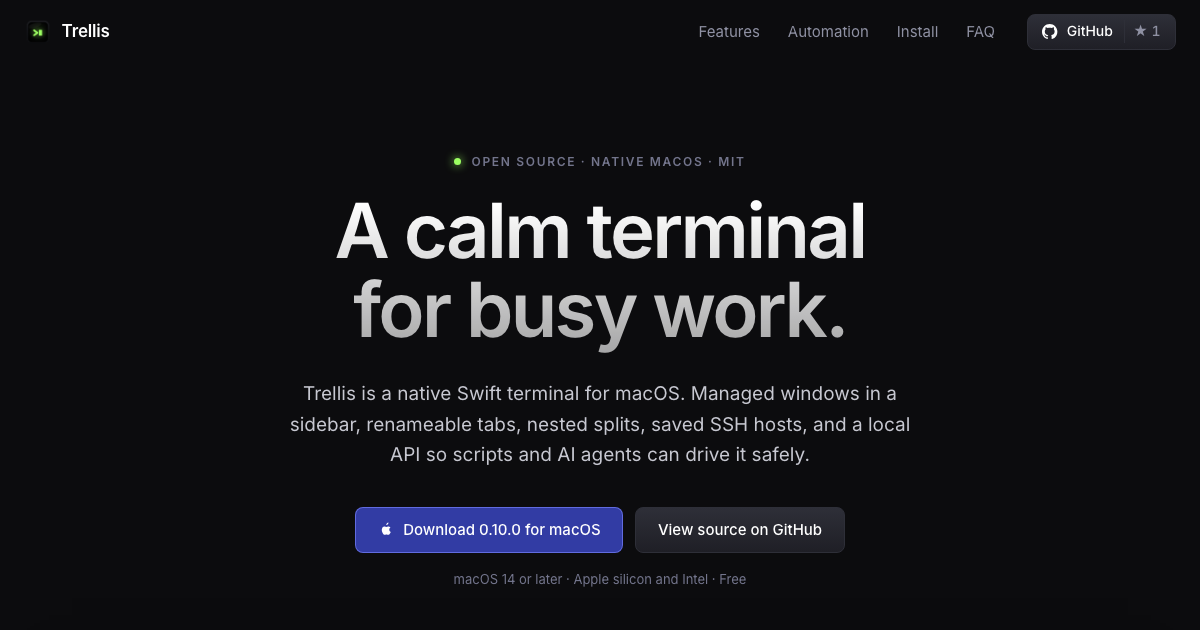
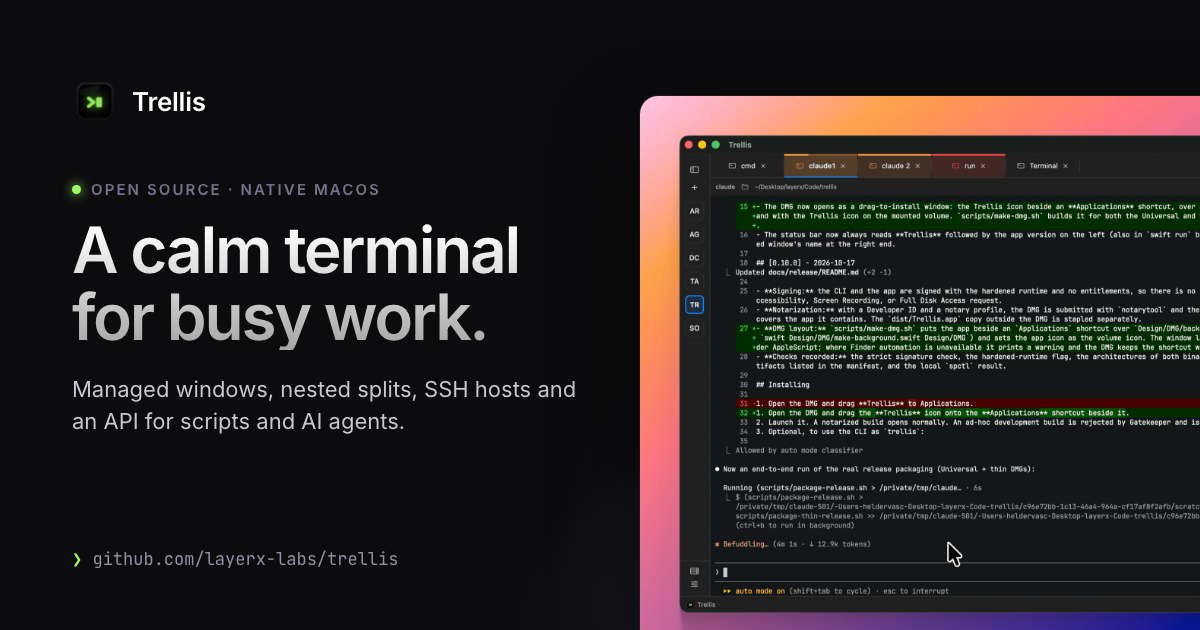
feat(landing): product screenshots, Open Graph and SEO
Adds the tabs, splits, shell, hosts and themes screenshots on the hero's
wallpaper gradient, with alt text matching each capture. Screenshots in
reversed rows get the wide column.

SEO: canonical URL, Open Graph and Twitter tags with a 1200x630 share card
(rendered from og/og.html via `npm run og`), SoftwareApplication JSON-LD, a web
manifest, and build-time robots.txt and sitemap.xml. Absolute URLs come from
SITE_URL (default https://trellis.layerx.xyz), passed through the Dockerfile as
a build arg for Railway.

Verified: clean build; SITE_URL override; headless Chrome render of the page.
Pending: share previews on a live domain.

diff --git a/landing/index.html b/landing/index.html
@@ -4,15 +4,57 @@
     <meta charset="UTF-8" />
     <meta name="viewport" content="width=device-width, initial-scale=1" />
     <title>Trellis: a calm, native terminal for macOS</title>
-    <meta name="description" content="Trellis is an open-source native Swift terminal for macOS: managed windows, renameable tabs, nested splits, saved SSH hosts and a local automation API with a CLI and MCP server." />
+    <meta name="description" content="Trellis is a free, open-source native Swift terminal for macOS: managed windows, renameable tabs, nested splits, saved SSH hosts and a local automation API with a CLI and MCP server." />
+    <meta name="keywords" content="macOS terminal, terminal emulator, Swift, SwiftUI, SSH client, split panes, open source terminal, MCP, Claude Code, automation API" />
+    <meta name="author" content="LayerX Labs" />
+    <meta name="robots" content="index, follow, max-image-preview:large" />
+    <link rel="canonical" href="%SITE_URL%/" />
     <meta name="theme-color" content="#0c0c0e" />
+    <meta name="color-scheme" content="dark" />
     <link rel="icon" type="image/png" href="/favicon.png" />
     <link rel="apple-touch-icon" href="/apple-touch-icon.png" />
+    <link rel="manifest" href="/site.webmanifest" />
+
+    <!-- Open Graph -->
     <meta property="og:type" content="website" />
+    <meta property="og:site_name" content="Trellis" />
+    <meta property="og:locale" content="en_US" />
+    <meta property="og:url" content="%SITE_URL%/" />
     <meta property="og:title" content="Trellis: a calm, native terminal for macOS" />
-    <meta property="og:description" content="Open source. Managed windows, nested splits, SSH hosts and an automation API for scripts and agents." />
-    <meta property="og:image" content="/og.png" />
+    <meta property="og:description" content="Free and open source. Managed windows, nested splits, saved SSH hosts and an automation API for scripts and AI agents." />
+    <meta property="og:image" content="%SITE_URL%/og.png" />
+    <meta property="og:image:type" content="image/png" />
+    <meta property="og:image:width" content="1200" />
+    <meta property="og:image:height" content="630" />
+    <meta property="og:image:alt" content="Trellis, a calm terminal for busy work: the app window with tabs and a terminal session" />
+
+    <!-- Twitter / X -->
     <meta name="twitter:card" content="summary_large_image" />
+    <meta name="twitter:title" content="Trellis: a calm, native terminal for macOS" />
+    <meta name="twitter:description" content="Free and open source. Managed windows, nested splits, saved SSH hosts and an automation API for scripts and AI agents." />
+    <meta name="twitter:image" content="%SITE_URL%/og.png" />
+    <meta name="twitter:image:alt" content="Trellis, a calm terminal for busy work: the app window with tabs and a terminal session" />
+
+    <script type="application/ld+json">
+    {
+        "@context": "https://schema.org",
+        "@type": "SoftwareApplication",
+        "name": "Trellis",
+        "description": "A free, open-source native Swift terminal for macOS with managed windows, nested splits, saved SSH hosts and a local automation API.",
+        "url": "%SITE_URL%/",
+        "image": "%SITE_URL%/og.png",
+        "screenshot": "%SITE_URL%/og.png",
+        "applicationCategory": "DeveloperApplication",
+        "operatingSystem": "macOS 14 or later",
+        "processorRequirements": "Apple silicon or Intel (Universal 2)",
+        "downloadUrl": "https://github.com/layerx-labs/trellis/releases/latest",
+        "license": "https://opensource.org/licenses/MIT",
+        "isAccessibleForFree": true,
+        "offers": { "@type": "Offer", "price": "0", "priceCurrency": "USD" },
+        "author": { "@type": "Organization", "name": "LayerX", "url": "https://layerx.xyz" },
+        "sameAs": ["https://github.com/layerx-labs/trellis"]
+    }
+    </script>
 </head>
 <body>
     <a class="skip-link" href="#main">Skip to content</a>
@@ -82,7 +124,7 @@
                             <li>Programs can post desktop notifications (OSC 9, 777 and 99). Click one to jump straight to the pane.</li>
                         </ul>
                     </div>
-                    <figure class="shot" data-shot="tabs" data-alt="Trellis sidebar with several managed windows and color-labeled tabs"></figure>
+                    <figure class="shot" data-shot="tabs" data-alt="Trellis with managed windows in the sidebar and five color-labeled tabs"></figure>
                 </div>
 
                 <div class="split split-rev reveal">
@@ -94,7 +136,7 @@
                             <li>Restored workspaces start with every session <strong>stopped</strong>. Typed input is never replayed.</li>
                         </ul>
                     </div>
-                    <figure class="shot" data-shot="splits" data-alt="A Trellis tab split into several panes running different programs"></figure>
+                    <figure class="shot" data-shot="splits" data-alt="A Trellis tab split into two panes, git log on the left and htop on the right"></figure>
                 </div>
 
                 <div class="split reveal">
@@ -106,7 +148,7 @@
                             <li>On by default. Turn it off in Settings → Sessions.</li>
                         </ul>
                     </div>
-                    <figure class="shot" data-shot="shell" data-alt="A failed command flagged in the Trellis scrollback"></figure>
+                    <figure class="shot" data-shot="shell" data-alt="A tab waiting for a password: the Input label shows on the tab and its window in the sidebar"></figure>
                 </div>
             </div>
         </section>
@@ -197,7 +239,7 @@
                         <li>An optional per-host password lives in the macOS Keychain, optionally behind Touch ID, and is given to ssh only at its password prompt.</li>
                     </ul>
                 </div>
-                <figure class="shot reveal" data-shot="hosts" data-alt="The Trellis Hosts window listing saved SSH hosts"></figure>
+                <figure class="shot reveal" data-shot="hosts" data-alt="The Trellis Hosts window editing a saved SSH host"></figure>
             </div>
         </section>
 
@@ -214,7 +256,7 @@
                         <li>A JSON theme library you can import, edit and share. Bundled Roboto Mono, JetBrains Mono and four more typefaces.</li>
                     </ul>
                 </div>
-                <figure class="shot reveal" data-shot="themes" data-alt="Trellis theme settings with a live preview"></figure>
+                <figure class="shot reveal" data-shot="themes" data-alt="Trellis in a green-tinted theme with shell integration showing the directory and git branch"></figure>
             </div>
         </section>
 

diff --git a/landing/og/og.html b/landing/og/og.html
@@ -1,0 +1,47 @@
+<!doctype html>
+<!-- The 1200x630 share card. Rebuild public/og.png with `npm run og` (needs Google Chrome). -->
+<html lang="en">
+<head>
+<meta charset="UTF-8" />
+<style>
+    @font-face { font-family: "Inter Variable"; src: url("../node_modules/@fontsource-variable/inter/files/inter-latin-wght-normal.woff2") format("woff2"); font-weight: 100 900; }
+    @font-face { font-family: "JetBrains Mono"; src: url("../node_modules/@fontsource/jetbrains-mono/files/jetbrains-mono-latin-400-normal.woff2") format("woff2"); }
+    * { box-sizing: border-box; margin: 0; }
+    html, body { width: 1200px; height: 630px; overflow: hidden; }
+    body {
+        position: relative; background: #0c0c0e; color: #c7c8d1;
+        font-family: "Inter Variable", sans-serif; font-feature-settings: "cv05" on; -webkit-font-smoothing: antialiased;
+        background-image:
+            radial-gradient(60% 70% at 88% 85%, rgba(104, 115, 233, 0.22), transparent 70%),
+            radial-gradient(40% 50% at 70% 100%, rgba(142, 127, 202, 0.18), transparent 70%);
+    }
+    .copy { position: absolute; left: 72px; top: 78px; width: 520px; }
+    .brand { display: flex; align-items: center; gap: 14px; color: #fff; font-size: 26px; font-weight: 600; letter-spacing: -0.01em; }
+    .brand img { width: 46px; height: 46px; border-radius: 10px; }
+    .eyebrow { display: flex; align-items: center; gap: 10px; margin-top: 56px; color: #73758c; font-size: 15px; font-weight: 600; letter-spacing: 0.14em; text-transform: uppercase; }
+    .dot { width: 9px; height: 9px; border-radius: 50%; background: #9cff62; box-shadow: 0 0 12px #9cff62; }
+    h1 {
+        margin-top: 18px; font-size: 64px; line-height: 1.04; letter-spacing: -0.035em; font-weight: 600;
+        background: linear-gradient(#fff 6.98%, #ffffff5c 167.44%); -webkit-background-clip: text; color: transparent;
+    }
+    .lead { margin-top: 24px; font-size: 22px; line-height: 1.45; color: #c7c8d1; }
+    .repo { position: absolute; left: 72px; bottom: 60px; font-family: "JetBrains Mono", monospace; font-size: 17px; color: #8f91a3; }
+    .repo b { color: #9cff62; font-weight: 400; }
+    .shot {
+        position: absolute; left: 640px; top: 96px; width: 760px; border-radius: 18px; overflow: hidden;
+        box-shadow: 0 40px 90px -10px rgba(0, 0, 0, 0.75), 0 0 0 1px rgba(255, 255, 255, 0.08);
+    }
+    .shot img { display: block; width: 100%; }
+</style>
+</head>
+<body>
+    <div class="copy">
+        <div class="brand"><img src="../public/apple-touch-icon.png" alt="" />Trellis</div>
+        <p class="eyebrow"><span class="dot"></span>Open source · native macOS</p>
+        <h1>A calm terminal for busy work.</h1>
+        <p class="lead">Managed windows, nested splits, SSH hosts and an API for scripts and AI agents.</p>
+    </div>
+    <p class="repo"><b>❯</b> github.com/layerx-labs/trellis</p>
+    <div class="shot"><img src="../src/assets/shots/hero.png" alt="" /></div>
+</body>
+</html>

diff --git a/landing/src/style.css b/landing/src/style.css
@@ -15,6 +15,8 @@
     --purple: #8e7fca;
     --purple-deep: #6954b8;
     --phosphor: #9cff62;
+    /* Sampled from the hero screenshot's macOS wallpaper, so every window capture sits on the same backdrop. */
+    --wallpaper: linear-gradient(135deg, #ffcfe5 0%, #ffb384 16%, #ff9c75 28%, #f4899f 42%, #d27fac 50%, #8f5ca4 63%, #5746b2 74%, #072ba6 88%, #021e87 100%);
 
     --font: "Inter Variable", Inter, -apple-system, BlinkMacSystemFont, "SF Pro Display", "Helvetica Neue", sans-serif;
     --mono: "JetBrains Mono", ui-monospace, "SF Mono", Menlo, monospace;
@@ -135,6 +137,7 @@ strong { color: var(--heading); font-weight: 600; }
 
 .split { display: grid; grid-template-columns: minmax(0, 1fr) minmax(0, 1.35fr); gap: 4rem; align-items: center; }
 .split + .split { margin-top: 6rem; }
+.split-rev { grid-template-columns: minmax(0, 1.35fr) minmax(0, 1fr); }
 .split-rev > :first-child { order: 2; }
 .split-title { font-size: 1.625rem; line-height: 1.2; letter-spacing: -0.02em; margin-bottom: 1.25rem; }
 .split-copy .section-lead { margin-bottom: 1.5rem; }
@@ -145,7 +148,9 @@ strong { color: var(--heading); font-weight: 600; }
 /* Screenshots */
 .shot { margin: 0; }
 .shot-open { display: block; width: 100%; padding: 0; border: 0; background: none; cursor: zoom-in; border-radius: var(--radius-lg); }
-.shot img, .shot-open img { width: 100%; height: auto; border-radius: var(--radius-lg); box-shadow: 0 1.5rem 4rem -1rem rgba(0, 0, 0, 0.6), 0 0 0 1px rgba(255, 255, 255, 0.06); }
+/* Window captures carry their own macOS shadow on a transparent margin; they sit on the hero's wallpaper. */
+.shot img, .shot-open img { width: 100%; height: auto; }
+.shot .shot-open { padding: clamp(0.75rem, 4%, 2.25rem); border-radius: var(--radius-lg); background: var(--wallpaper); box-shadow: 0 1.5rem 4rem -1rem rgba(0, 0, 0, 0.6), 0 0 0 1px rgba(255, 255, 255, 0.06); }
 .shot-placeholder {
     aspect-ratio: 16 / 10; display: grid; place-items: center; text-align: center; padding: 1.5rem;
     border-radius: var(--radius-lg); color: var(--dimmer); font-size: 0.875rem;

diff --git a/landing/vite.config.js b/landing/vite.config.js
@@ -1,6 +1,29 @@
-import { defineConfig } from "vite";
+import { defineConfig, loadEnv } from "vite";
 
-export default defineConfig({
-    base: "/",
-    build: { outDir: "dist", assetsInlineLimit: 0 },
+// Canonical, Open Graph and sitemap URLs must be absolute. Set SITE_URL at build time
+// (a Railway service variable, `SITE_URL=… npm run build`, or landing/.env).
+function seo(siteURL) {
+    return {
+        name: "trellis-seo",
+        transformIndexHtml: (html) => html.replaceAll("%SITE_URL%", siteURL),
+        generateBundle() {
+            const today = new Date().toISOString().slice(0, 10);
+            this.emitFile({ type: "asset", fileName: "robots.txt", source: `User-agent: *\nAllow: /\n\nSitemap: ${siteURL}/sitemap.xml\n` });
+            this.emitFile({
+                type: "asset",
+                fileName: "sitemap.xml",
+                source: `<?xml version="1.0" encoding="UTF-8"?>\n<urlset xmlns="http://www.sitemaps.org/schemas/sitemap/0.9">\n  <url><loc>${siteURL}/</loc><lastmod>${today}</lastmod></url>\n</urlset>\n`,
+            });
+        },
+    };
+}
+
+export default defineConfig(({ mode }) => {
+    const env = loadEnv(mode, process.cwd(), "");
+    const siteURL = (process.env.SITE_URL || env.SITE_URL || "https://trellis.layerx.xyz").replace(/\/+$/, "");
+    return {
+        base: "/",
+        plugins: [seo(siteURL)],
+        build: { outDir: "dist", assetsInlineLimit: 0 },
+    };
 });

diff --git a/landing/README.md b/landing/README.md
@@ -33,13 +33,26 @@ swift run Trellis --state-directory "$PWD/.build/demo-state"
 
 On load the page asks the GitHub API for the star count and the latest release tag. If that fails (offline, rate-limited), the static labels stay: "GitHub" and "Download for macOS".
 
+## SEO and sharing
+
+`index.html` carries the canonical URL, Open Graph and Twitter tags, and `SoftwareApplication` JSON-LD. The build also writes `robots.txt` and `sitemap.xml`. Absolute URLs come from `SITE_URL`, which defaults to `https://trellis.layerx.xyz`:
+
+```sh
+SITE_URL=https://your.domain npm run build
+```
+
+On Railway, add `SITE_URL` as a service variable; the Dockerfile passes it to the build.
+
+The share card `public/og.png` (1200×630) is rendered from `og/og.html` with `npm run og`, which needs Google Chrome. Rerun it after changing the hero screenshot.
+
 ## Deploying on Railway
 
 The `Dockerfile` builds the site with Node 22 and serves `dist/` with nginx. nginx listens on `$PORT`, which Railway injects; it defaults to 8080. The config (`nginx/default.conf.template`) sets gzip, immutable caching for hashed `/assets/`, `no-cache` for HTML, and security headers including a CSP that only allows `api.github.com` for fetches.
 
 1. In Railway, create a service from the `layerx-labs/trellis` GitHub repo.
 2. Set **Settings → Root Directory** to `landing`. `railway.json` selects the Dockerfile builder.
-3. Generate a domain, or attach your own.
+3. Add a `SITE_URL` variable with the public address, e.g. `https://trellis.layerx.xyz`.
+4. Generate a domain, or attach your own.
 
 Locally:
 
